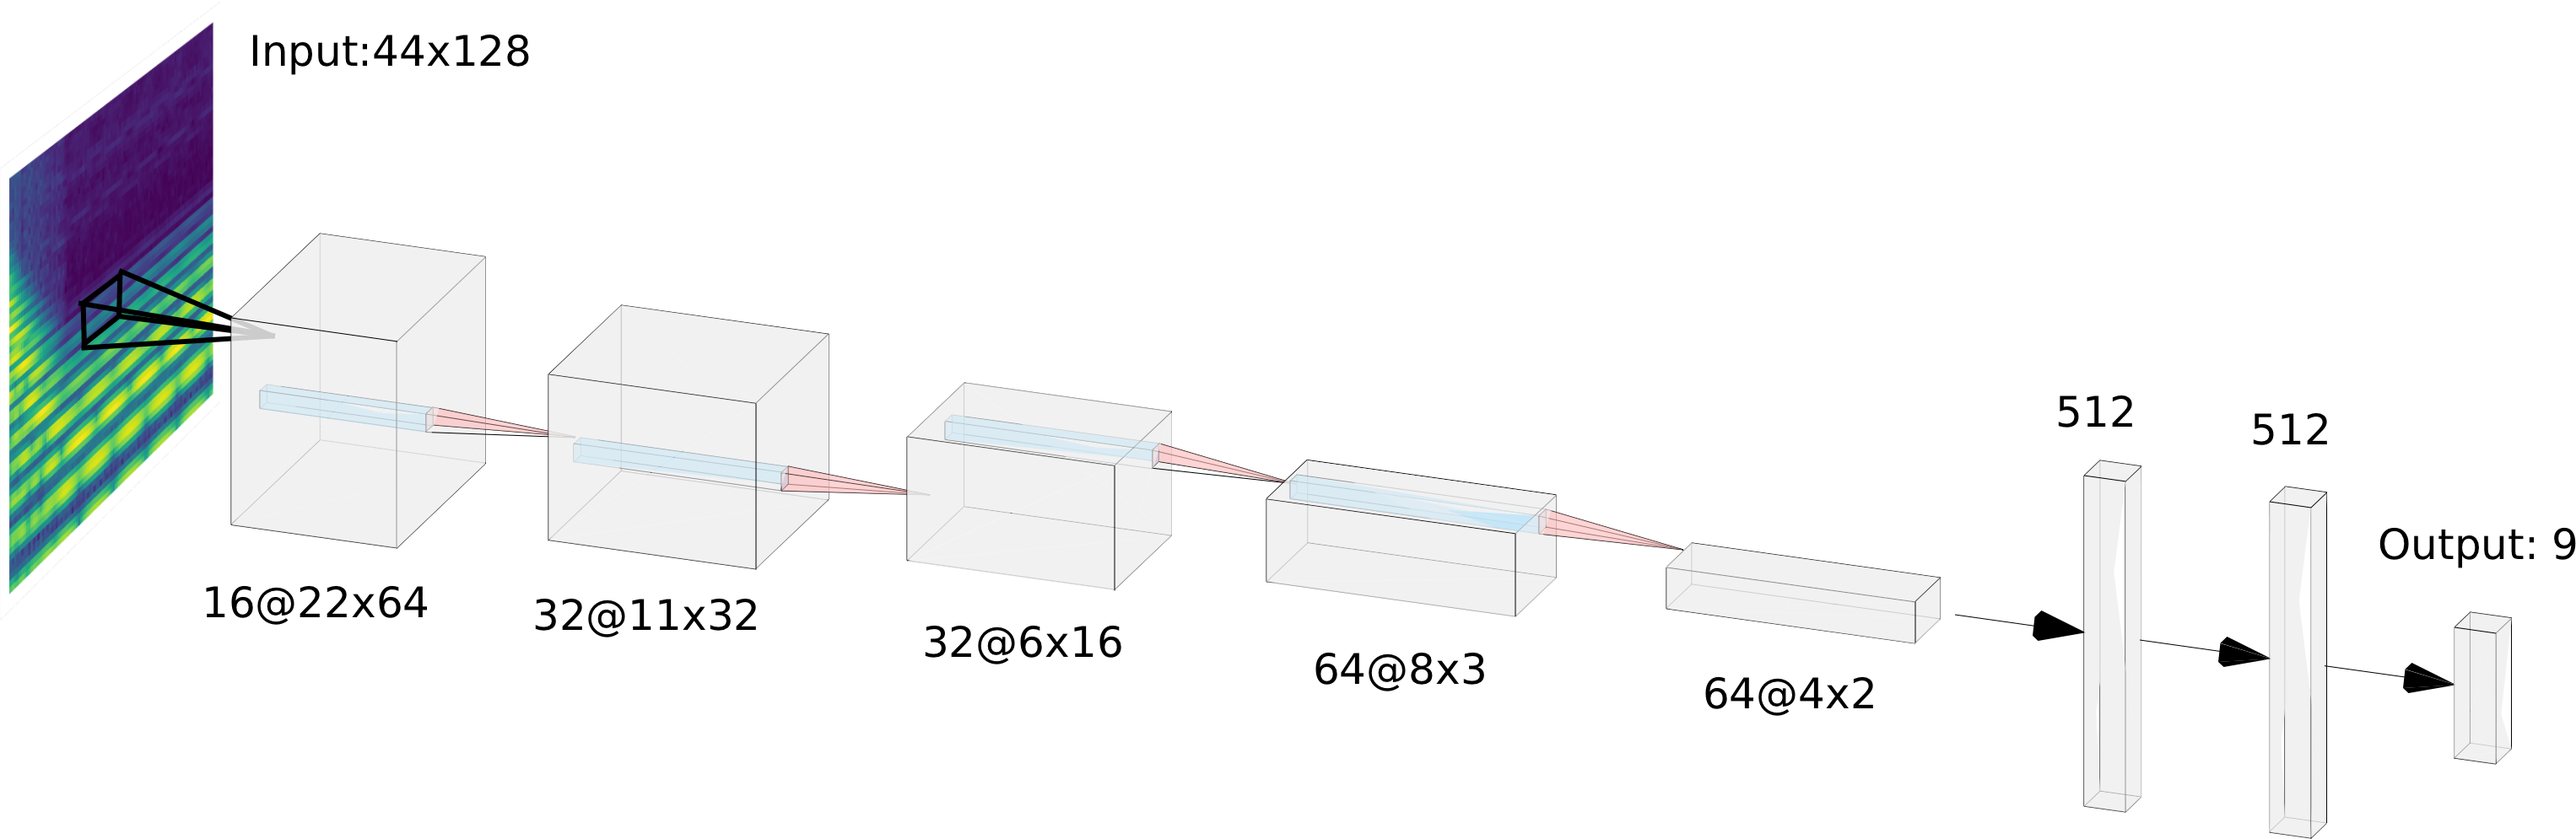
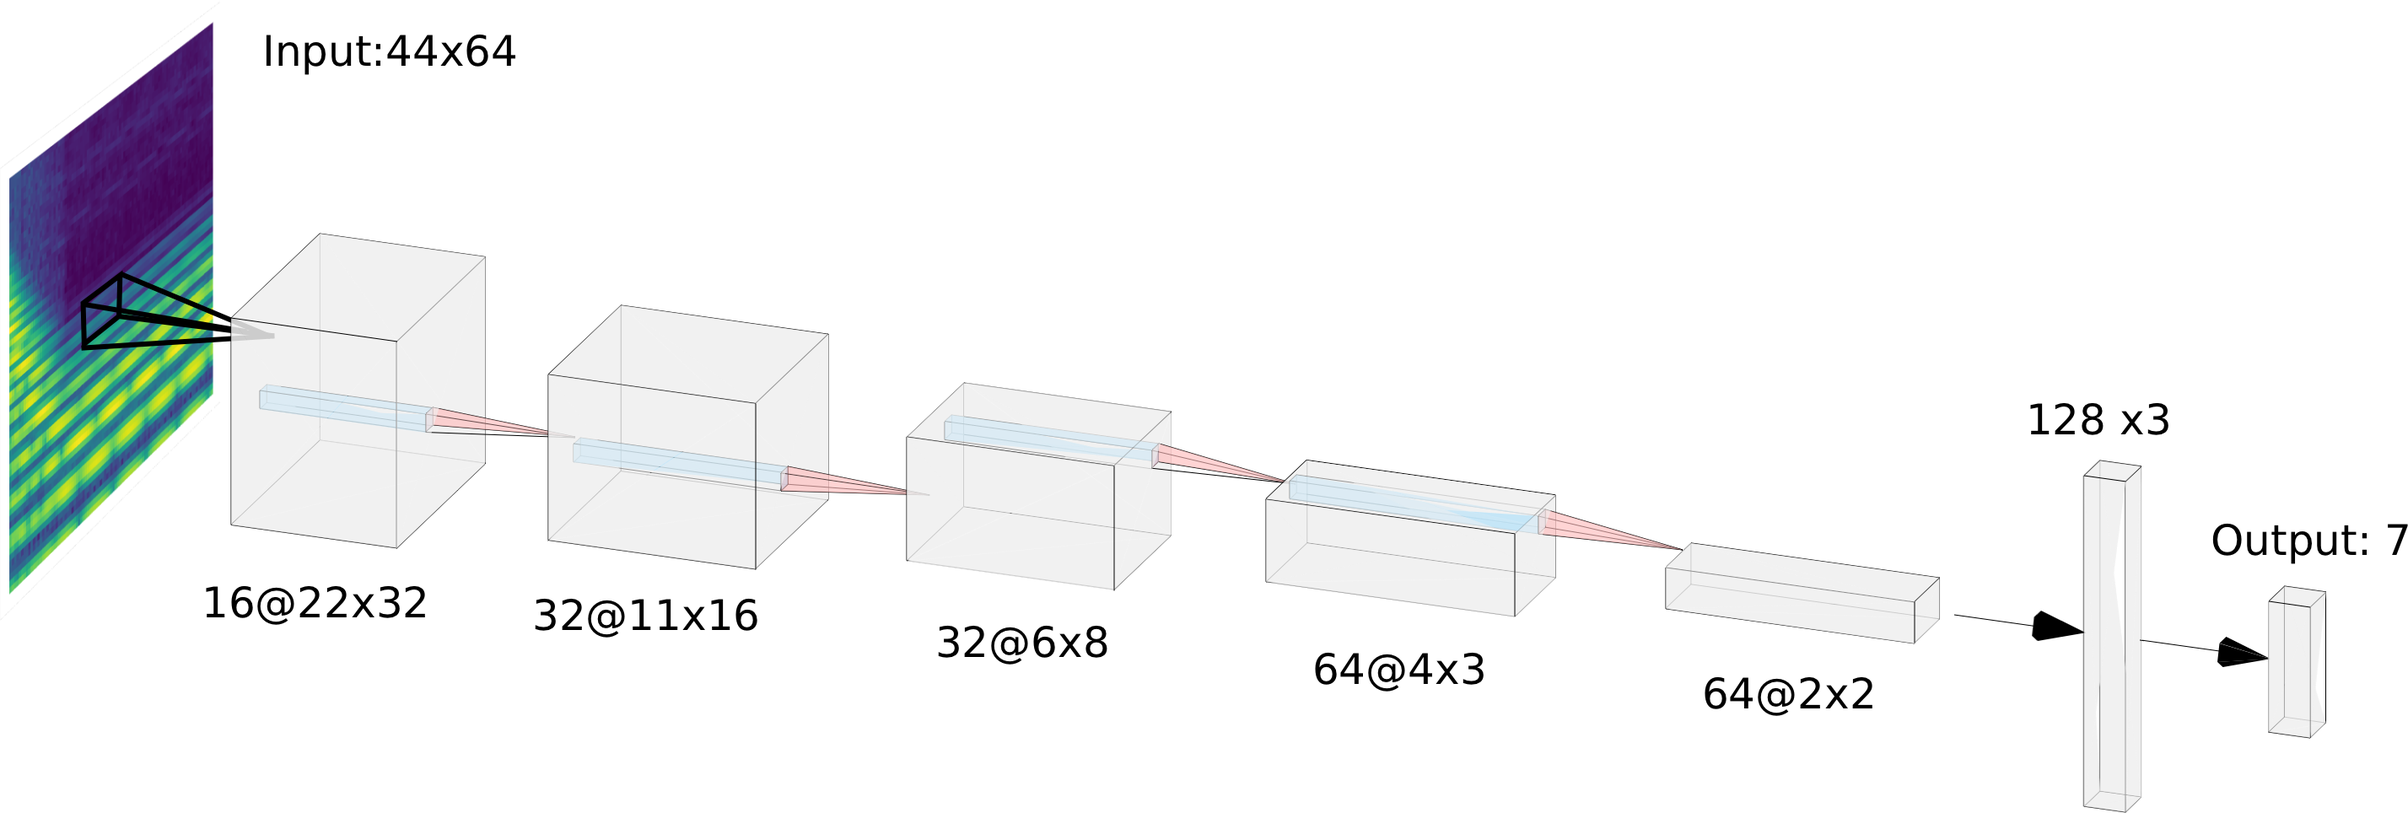
Updating the deep learning models

diff --git a/chapters/ch5-inverse-synthesis-experiment.tex b/chapters/ch5-inverse-synthesis-experiment.tex
@@ -144,31 +144,31 @@ Multi-Layer Perceptron (MLP) models, also referred to as a feedforward neural ne
 Two different Recurrent Neural Networks (RNNs) derived from work by Yee-King \textit{et al.} \cite{yee2018automatic} were used in this experiment:
 \begin{itemize}
     \item \textit{LSTM:} The first is an RNN with three LSTM layers followed by a dropout layer and a fully connected linear output layer. The models used with MFCC input contained 64 units in each LSTM layer and the model used with Mel-spectrogram input had a larger capacity with 128 units in each LSTM layer.
-    \item \textit{LSTM++:} The LSTM++ is a novel architecture proposed by Yee-King \textit{et al.} that performed the best on on their sound matching experiment \cite{yee2018automatic}. It features a bi-directional LSTM layer followed by a dropout, then a dense layer with an ELU non-linearity prior to a number of highway layers. [FINISH THIS]
-    \item 
-    Each LSTM in the bi-directional layer contains 128 units. A dropout with a rate of 0.2 follows the bi-directional layer. This is then projected down to 64 dimensions using a dense layer with an exponential linear unit (ELU) activation. Six highway layers follow this, also with ELU activations. The highway layers perserve the dimensionality of the input. The final highway layer is connected to the output with a fully connected layer containing an ELU activation. This model contains 212k trainable parameters and was trained using a learning rate of 0.001, early-stopping patience of 30, and a batch-size of 32.
+    \item \textit{LSTM++:} The LSTM++ is a novel architecture proposed by Yee-King \textit{et al.} that performed the best on on their sound matching experiment \cite{yee2018automatic}. It features a bi-directional LSTM layer followed by a dropout, then a dense layer with an ELU non-linearity prior to several highway layers. In this experiment the size of the LSTM layers and the size and number of highways layers was selected using TPE. The models for MFCCs and Mel-spectrograms were the same and used LSTM layers with 128 units and seven highways layers each of size 128.
 \end{itemize}
 
 \subsection{Convolutional Neural Networks}
-Four different convolution networks based on models proposed by Barkan \textit{et al.} were used \cite{barkan2019inversynth}. In their work, Barkan \textit{et al.} experimented with seven different CNN models that used a log STFT spectrogram for input. They found that the model with the most capacity, a model with 6 CNN layers and 2.3M trainable parameters, performed the best in their experiments. All the other spectrogram based models that they experimented with had 1.2M trainable parameters and had between one to six convolutional layers. They also use strided convolutions as opposed to the more traditional max pooling approach to downsample between layers \cite{goodfellow2016deep}. The 6-layer and 5-layer networks proposed by Barkan \textit{et al.} were used for this experiment, these models were called \textit{Conv6} and \textit{Conv5} respectively. Early experiments showed that these models were prone to overfitting on the Dexed parameter estimation dataset and two derivative models with less capacity were developed for this experiment, these models were called \textit{Conv6s} and \textit{Conv5s}, where the appended "s" stands for "small". The Conv6 and Conv5 models were modified by reducing the size of the filters in each convolutional layer to produce the smaller models. Both the Conv6 and Conv5 networks contained 1.1M trainable parameters, the Con6s model contained 686k trainable parameters, and the Conv5s model contained 600k trainable parameters. 
+Barkan \textit{et al.} experimented with seven different CNN models for inverse synthesis that used a log STFT spectrogram input \cite{barkan2019inversynth}. They found that the model with the most capacity, a model with 6 CNN layers and 2.3M trainable parameters, performed the best in their experiments. All the other spectrogram based models that they experimented with had 1.2M trainable parameters and had between one to six convolutional layers. They also use strided convolutions as opposed to the more traditional max pooling approach to downsample between layers \cite{goodfellow2016deep}.
 
-Hyperparameter optimization with TPE was used to further refine these models. Model parameters that were included in the optimization were the depth and size of the fully connected layers that were inserted before the output, whether or not to include batch-normalization between the convolutional layers, and the amount of dropout to include before and between each of fully connected layers. Based on the optimization trials, two fully connected layers of size 512 were selected, batch normalization was included, and a dropout with rate 0.2 was selected. These modifications were applied to all four of the convolution models. Figure \ref{fig:conv5s} shows a diagram of the Conv5s architecture, without the batch normalization and dropout layers.
+The 6-layer and 5-layer networks proposed by Barkan \textit{et al.} were implemented for this experiment. Early tests showed that these models were prone to overfitting and a derivative model with less capacity was developed for this experiment. This model had five convolutional layers with fewer filters in each of the layers to reduce the number of trainable parameters, which was found to help prevent overfitting.
+
+The final CNN architecture that was selected for the MFCC model also included batch normalization between each of the convolutional layers and two fully-connected layers before the output, each with 512 neurons and ReLu activation. The Mel-Spectrogram CNN did not use batch normalization and had three fully-connected layers before the output, each with 128 neurons and ReLu activation. Both the CNNs had dropout before the fully-connected hidden layers. Figure \ref{fig:conv5s} shows a diagram of the Conv5s architecture used for the Mel-spectrogram inputs, excluding the batch normalization and dropout layers.
 
 \begin{figure}[ht]
     \centering
     \includegraphics[width=0.99\textwidth]{figures/inverse-synth/CONV5s_Diagram.png}
     % Add a bit more description in this figure
-    \caption{Network diagram of the Conv5s CNN. This model accepts a Mel-spectrogram as input and contains five 2D convolutional layers followed by two dense layers. The output layer is predicted synthesizer parameters.}
+    \caption{Network diagram of the CNN. This model accepts a Mel-spectrogram as input and contains five 2D convolutional layers followed by three dense layers. The output layer is predicted synthesizer parameters.}
     \label{fig:conv5s}
 \end{figure}
 
-During initial experiments all of the models (especially the models with more capacity) began to overfit during training after about 50 epochs. A learning rate schedule was introduced in an attempt to address this and allow the models to train for longer. An inverse time-decay scheduler was included that reduced the learning rate according to the following equation:
+Initial experiments showed that even the reduced capacity CNN was prone to overfitting. An inverse time-decay learning rate scheduler was introduced in an attempt to address this to allow the models to train for longer. The learning rate at each training step was defined by the following equation:
 
 \begin{align}
     \eta_i = \frac{\eta_0}{1 + \lambda\frac{i}{T}}
 \end{align}
 
-Where $\eta_i$ is the learning rate at training step $i$, $\eta_0$ is the initial learning rate, $\lambda$ is the decay rate, and $T$ is the decay steps. For this experiment $\eta_0=0.001$, $\lambda=1.0$, and $T$ was set to be equivalent to 50 epochs, which means that the decay rate decreased by a factor of two by 50 epochs into training. All the CNNs were trained using this learning schedule, an early-stopping patience of 20, and a batch-size of 128. 
+Where $\eta_i$ is the learning rate at training step $i$, $\eta_0$ is the initial learning rate, $\lambda$ is the decay rate, and $T$ is the decay steps. For this experiment $\eta_0=0.001$ and $T$ was set to be equivalent to 25 epochs. $\lambda=3$ for the MFCC CNN and $\lambda=4$ for the Mel-Spectrogram CNN.
 
 \subsection{Training Results}
 All the models were allowed to train until the early-stopping criteria was triggered. The 5-LSTM++ model trained for the most number of epochs (151 epochs), and the Conv5 model trained for the least (60 epochs). Models were trained on an NVIDIA RTX 2080 super GPU, training time ranged between X for the X model, and Y for the Y model. All training times are listed in appendix \ref{appendix:training-times}.
